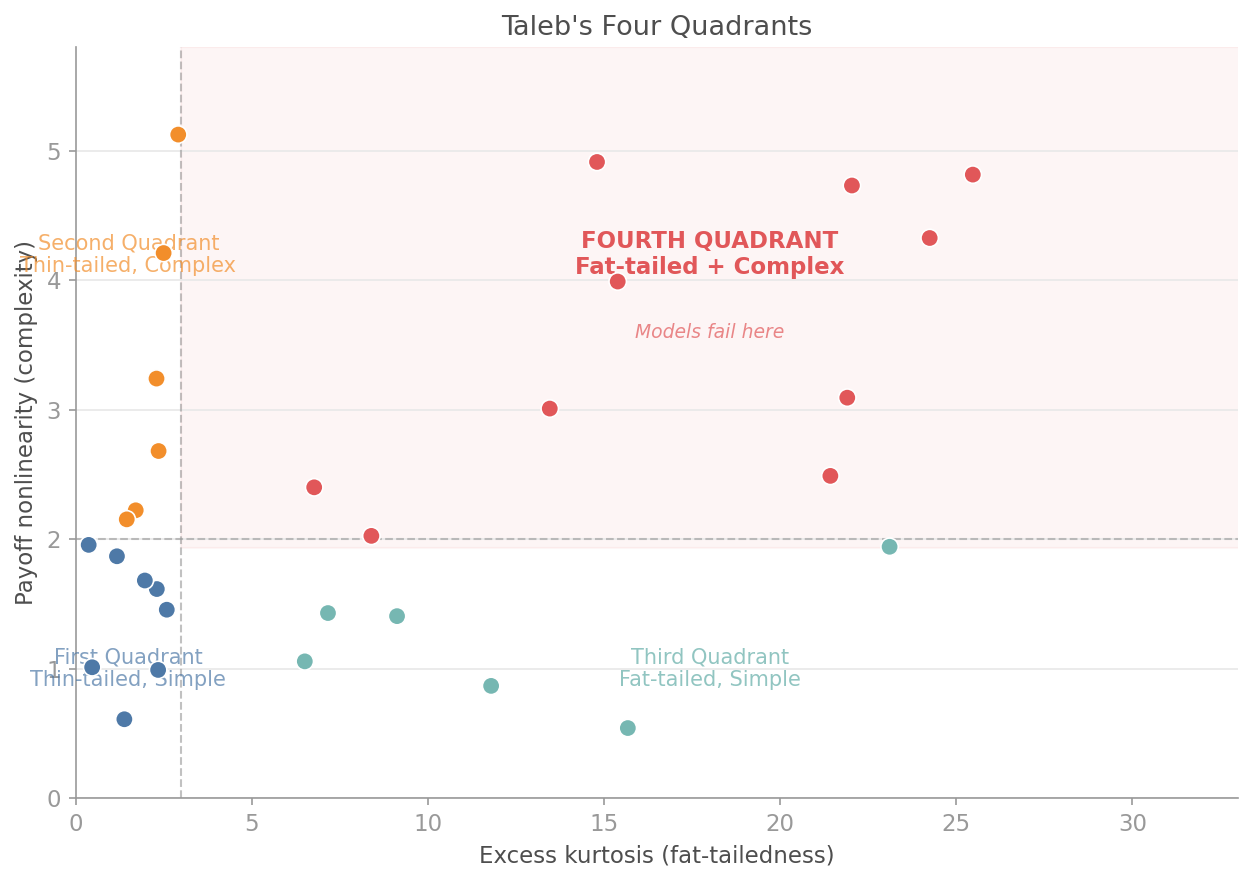
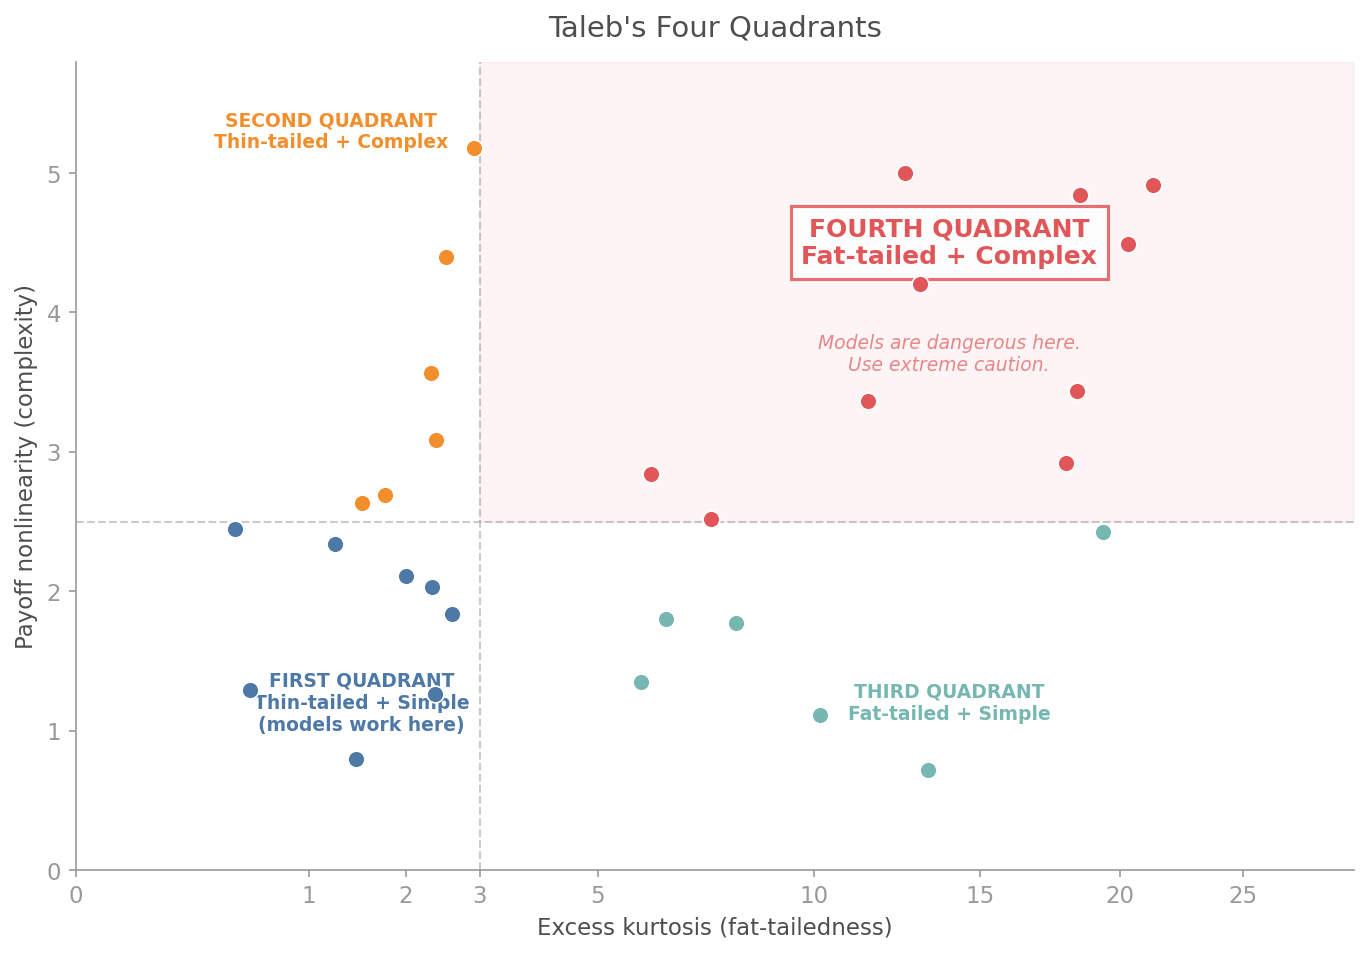
fix: Four Quadrants chart — sqrt x-axis for equal visual space, clear label placement

diff --git a/examples/antifragility_charts.py b/examples/antifragility_charts.py
@@ -69,82 +69,93 @@ def chart_payoff_convexity() -> None:
 
 
 def chart_fourth_quadrant() -> None:
-    """Taleb's Four Quadrants: kurtosis vs payoff complexity."""
+    """Taleb's Four Quadrants: kurtosis vs payoff complexity.
+
+    Uses sqrt-transformed x-axis so thin-tailed and fat-tailed regions
+    get equal visual space. Labels are positioned with white backgrounds
+    to avoid overlap with data points.
+    """
     rng = np.random.default_rng(42)
 
-    # Use log scale for x-axis to give thin-tailed points proper space.
-    # Kurtosis boundary at 3 (more realistic than 1).
     kurt_boundary = 3.0
-    nonlin_boundary = 2.0
+    nonlin_boundary = 2.5
 
-    # Generate synthetic points spread across quadrants
-    points = []
-    colours = []
-    labels = []
+    def tx(x):
+        """Sqrt transform for x-axis."""
+        return np.sqrt(np.asarray(x))
 
-    # Q1: Thin-tailed, simple (safe zone)
-    for _ in range(8):
-        points.append((rng.uniform(0.1, kurt_boundary), rng.uniform(0.2, nonlin_boundary)))
-        colours.append(FEW_PALETTE["primary"])
-        labels.append("Q1")
+    # Generate synthetic points in each quadrant
+    q1 = [(rng.uniform(0.2, kurt_boundary), rng.uniform(0.3, nonlin_boundary))
+           for _ in range(8)]
+    q2 = [(rng.uniform(0.2, kurt_boundary), rng.uniform(nonlin_boundary, 5.5))
+           for _ in range(6)]
+    q3 = [(rng.uniform(kurt_boundary, 25), rng.uniform(0.3, nonlin_boundary))
+           for _ in range(6)]
+    q4 = [(rng.uniform(kurt_boundary, 25), rng.uniform(nonlin_boundary, 5.5))
+           for _ in range(10)]
 
-    # Q2: Thin-tailed, complex
-    for _ in range(6):
-        points.append((rng.uniform(0.1, kurt_boundary), rng.uniform(nonlin_boundary, 5.5)))
-        colours.append(FEW_PALETTE["secondary"])
-        labels.append("Q2")
+    fig, ax = plt.subplots(figsize=(11, 7))
 
-    # Q3: Fat-tailed, simple
-    for _ in range(6):
-        points.append((rng.uniform(kurt_boundary, 30), rng.uniform(0.2, nonlin_boundary)))
-        colours.append(FEW_PALETTE["neutral"])
-        labels.append("Q3")
+    for pts, colour in [
+        (q1, FEW_PALETTE["primary"]),
+        (q2, FEW_PALETTE["secondary"]),
+        (q3, FEW_PALETTE["neutral"]),
+        (q4, FEW_PALETTE["negative"]),
+    ]:
+        xs = [p[0] for p in pts]
+        ys = [p[1] for p in pts]
+        ax.scatter(tx(xs), ys, c=colour, s=65, zorder=5,
+                   edgecolors="white", linewidth=0.8)
 
-    # Q4: Fat-tailed, complex (DANGER)
-    for _ in range(10):
-        points.append((rng.uniform(kurt_boundary, 30), rng.uniform(nonlin_boundary, 5.5)))
-        colours.append(FEW_PALETTE["negative"])
-        labels.append("Q4")
-
-    xs, ys = zip(*points)  # noqa: B905
-
-    fig, ax = plt.subplots(figsize=(10, 6.5))
-
-    # Shade the Fourth Quadrant
-    ax.axvspan(kurt_boundary, 35, ymin=nonlin_boundary / 6.0, ymax=1.0,
-               color=FEW_PALETTE["negative"], alpha=0.06, zorder=0)
-
-    ax.scatter(xs, ys, c=colours, s=70, zorder=5, edgecolors="white", linewidth=0.8)
-
-    # Quadrant boundary lines
-    ax.axvline(kurt_boundary, color=FEW_PALETTE["grey_mid"], linestyle="--",
-               linewidth=1, alpha=0.6)
+    # Quadrant boundaries
+    bx = tx(kurt_boundary)
+    ax.axvline(bx, color=FEW_PALETTE["grey_mid"], linestyle="--",
+               linewidth=1, alpha=0.5)
     ax.axhline(nonlin_boundary, color=FEW_PALETTE["grey_mid"], linestyle="--",
-               linewidth=1, alpha=0.6)
+               linewidth=1, alpha=0.5)
 
-    # Quadrant labels: positioned in clear areas, not on data points
-    label_style = {"fontsize": 10, "ha": "center", "va": "center"}
+    # Shade fourth quadrant
+    x_max = tx(30)
+    ax.fill_between([bx, x_max], nonlin_boundary, 5.8,
+                    color=FEW_PALETTE["negative"], alpha=0.06, zorder=0)
 
-    ax.text(1.5, 1.0, "First Quadrant\nThin-tailed, Simple",
-            color=FEW_PALETTE["primary"], alpha=0.7, **label_style)
-    ax.text(1.5, 4.2, "Second Quadrant\nThin-tailed, Complex",
-            color=FEW_PALETTE["secondary"], alpha=0.7, **label_style)
-    ax.text(18.0, 1.0, "Third Quadrant\nFat-tailed, Simple",
-            color=FEW_PALETTE["neutral"], alpha=0.8, **label_style)
-    ax.text(18.0, 4.2, "FOURTH QUADRANT\nFat-tailed + Complex",
-            color=FEW_PALETTE["negative"], fontsize=11, fontweight="bold",
-            ha="center", va="center")
-    ax.text(18.0, 3.6, "Models fail here",
-            color=FEW_PALETTE["negative"], fontsize=9, fontstyle="italic",
-            ha="center", va="center", alpha=0.7)
+    # Quadrant labels with white background for legibility
+    bbox_style = {"facecolor": "white", "edgecolor": "none",
+                  "alpha": 0.7, "pad": 3}
 
-    ax.set_xlim(0, 33)
+    ax.text(tx(1.5), 1.2, "FIRST QUADRANT\nThin-tailed + Simple\n(models work here)",
+            ha="center", va="center", fontsize=9,
+            color=FEW_PALETTE["primary"], fontweight="bold", bbox=bbox_style)
+    ax.text(tx(1.2), 5.3, "SECOND QUADRANT\nThin-tailed + Complex",
+            ha="center", va="center", fontsize=9,
+            color=FEW_PALETTE["secondary"], fontweight="bold", bbox=bbox_style)
+    ax.text(tx(14), 1.2, "THIRD QUADRANT\nFat-tailed + Simple",
+            ha="center", va="center", fontsize=9,
+            color=FEW_PALETTE["neutral"], fontweight="bold", bbox=bbox_style)
+    ax.text(tx(14), 4.5, "FOURTH QUADRANT\nFat-tailed + Complex",
+            ha="center", va="center", fontsize=12,
+            color=FEW_PALETTE["negative"], fontweight="bold",
+            bbox={"facecolor": "white", "edgecolor": FEW_PALETTE["negative"],
+                  "alpha": 0.85, "pad": 5, "linewidth": 1.5})
+    ax.text(tx(14), 3.7, "Models are dangerous here.\nUse extreme caution.",
+            ha="center", va="center", fontsize=9,
+            color=FEW_PALETTE["negative"], fontstyle="italic", alpha=0.7)
+
+    # Custom x-ticks in original kurtosis space
+    tick_vals = [0, 1, 2, 3, 5, 10, 15, 20, 25]
+    ax.set_xticks(tx(tick_vals))
+    ax.set_xticklabels([str(v) for v in tick_vals])
+
+    ax.set_xlim(0, tx(30))
     ax.set_ylim(0, 5.8)
-    ax.set_title("Taleb's Four Quadrants", fontsize=13)
+    ax.set_title("Taleb's Four Quadrants", fontsize=14, pad=12)
     ax.set_xlabel("Excess kurtosis (fat-tailedness)")
     ax.set_ylabel("Payoff nonlinearity (complexity)")
+    ax.yaxis.grid(False)
+    ax.xaxis.grid(False)
 
-    fig.savefig(DOCS_IMAGES / "fourth_quadrant_map.png", bbox_inches="tight")
+    fig.savefig(DOCS_IMAGES / "fourth_quadrant_map.png",
+                bbox_inches="tight", dpi=150)
     plt.close(fig)
     print("Saved fourth_quadrant_map.png")
 
